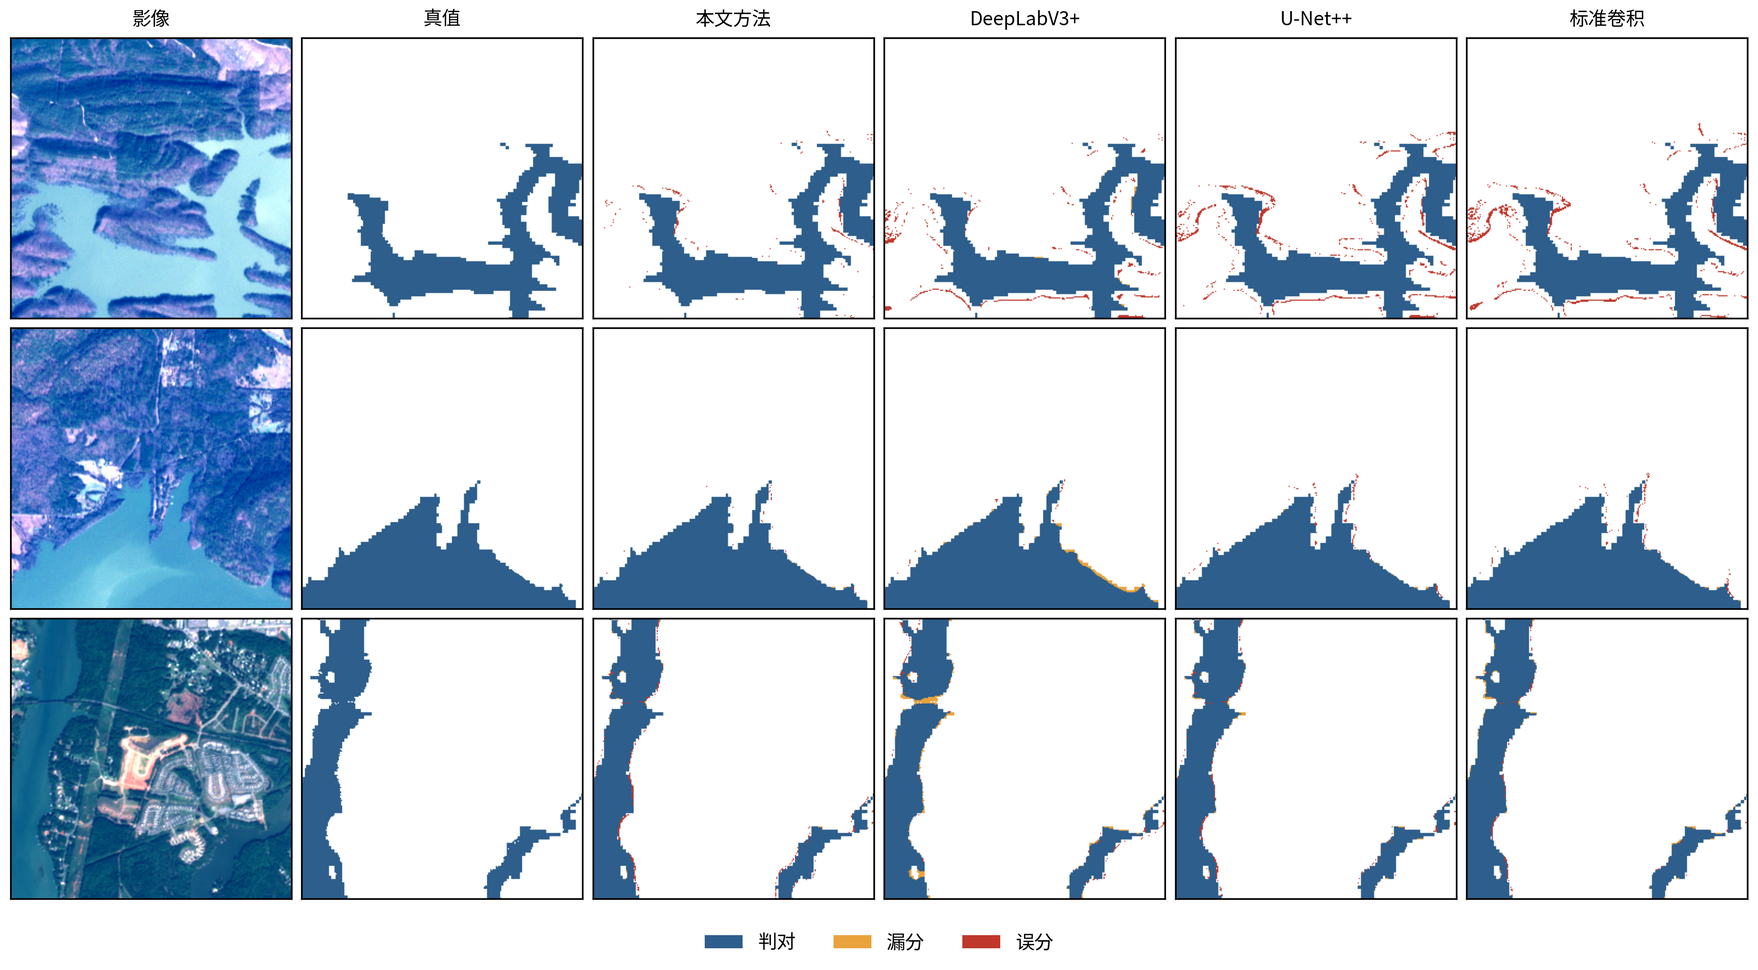
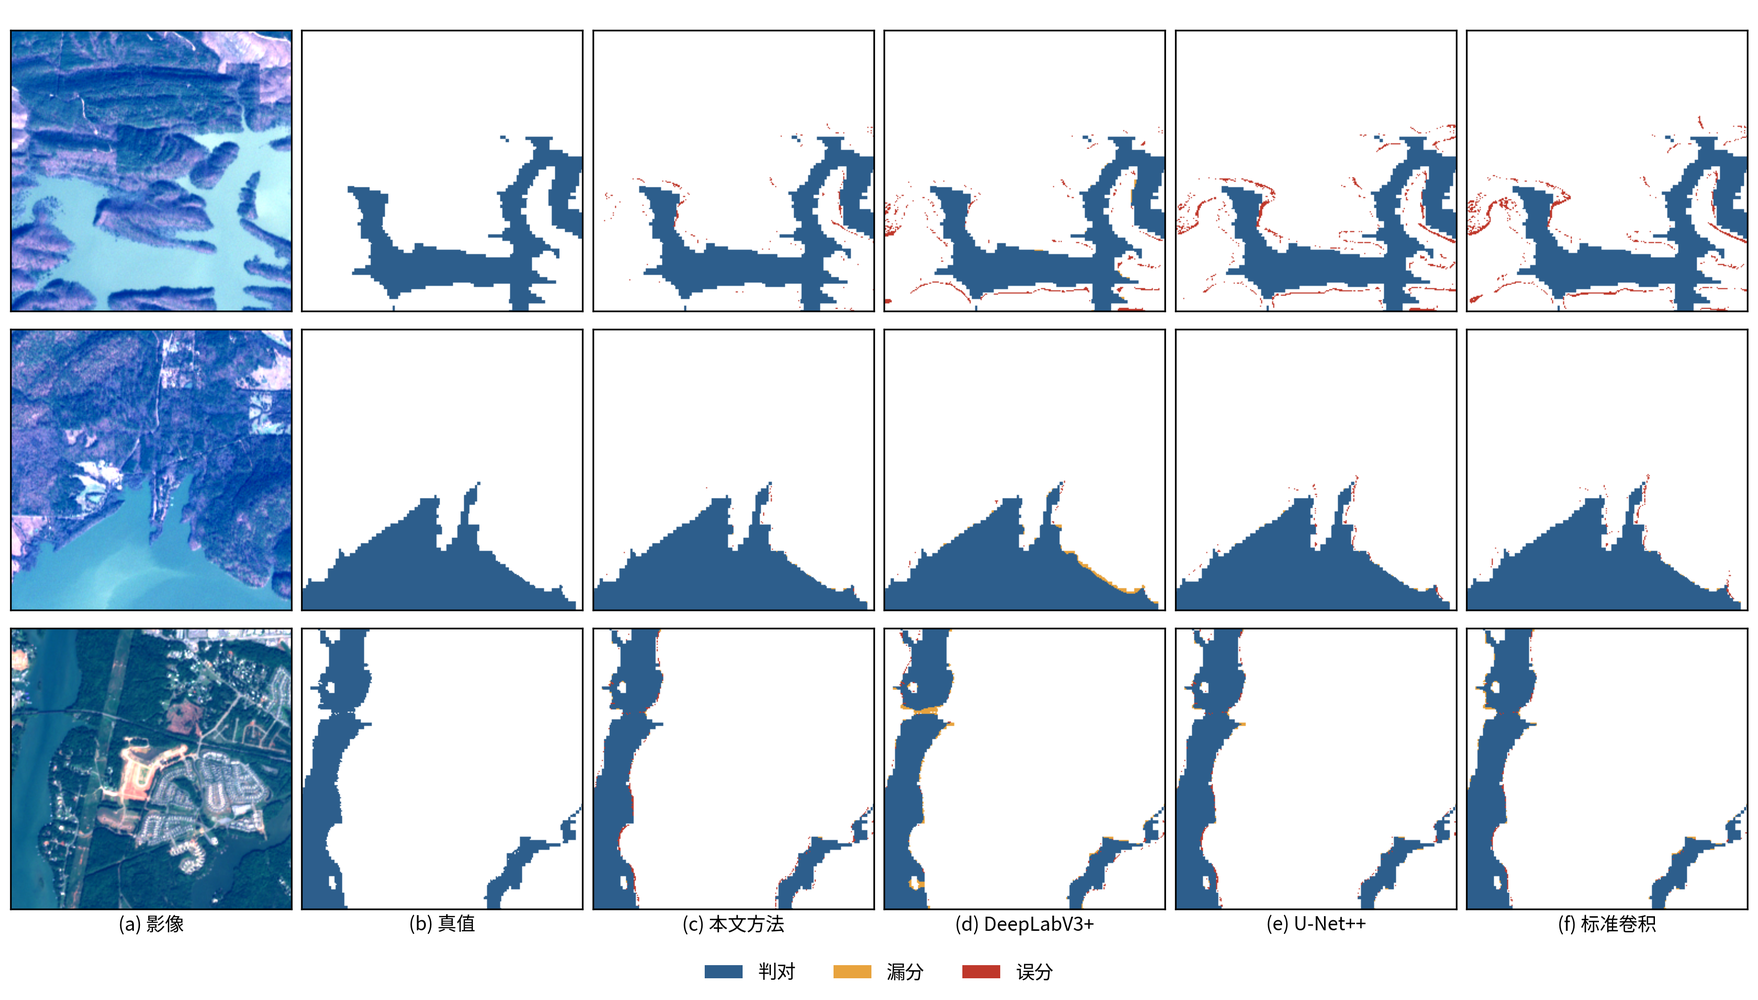
Submission compliance: bilingual Chinese refs (19), fix 5 incorrect citations, compress abstract, drop English subtitle, redraw figures 5/8 with labels and units

diff --git a/paper/body2b.py b/paper/body2b.py
@@ -101,38 +101,38 @@ S5 = [
 
 REFS = [
     'BONAFILIA D, TELLMAN B, ANDERSON T, et al. Sen1Floods11: a georeferenced dataset to train and test deep learning flood algorithms for Sentinel-1 [C]//Proceedings of the IEEE/CVF Conference on Computer Vision and Pattern Recognition Workshops. 2020: 210-211.',
-    'MATEO-GARCIA G, VEITCH-MICHAELIS J, SMITH L, et al. Towards global flood mapping onboard low cost satellites using machine learning [J]. Scientific Reports, 2021, 11: 4659.',
+    'MATEO-GARCIA G, VEITCH-MICHAELIS J, SMITH L, et al. Towards global flood mapping onboard low cost satellites with machine learning [J]. Scientific Reports, 2021, 11: 4659.',
     'MCFEETERS S K. The use of the normalized difference water index (NDWI) in the delineation of open water features [J]. International Journal of Remote Sensing, 1996, 17(7): 1425-1432.',
-    '徐涵秋. 利用改进的归一化差异水体指数(MNDWI)提取水体信息的研究 [J]. 遥感学报, 2005, 9(5): 589-595.',
-    '陈昊旻. 基于Sentinel-2A/B数据构建水体指数的波段优选 [J]. 自然资源遥感, 2025, 37(2): 64-71.',
+    '徐涵秋. 利用改进的归一化差异水体指数(MNDWI)提取水体信息的研究 [J]. 遥感学报, 2005, 9(5): 589-595.\nXU H Q. A study on information extraction of water body with the modified normalized difference water index (MNDWI) [J]. National Remote Sensing Bulletin, 2005, 9(5): 589-595.',
+    '夏兴生, 雷博洋, 窦春娟, 等. 基于Sentinel-2A/B数据构建水体指数的波段优选 [J]. 自然资源遥感, 2025, 37(6): 64-76.\nXIA X S, LEI B Y, DOU C J, et al. Band selection optimization for constructing water indices based on Sentinel-2A/B data [J]. Remote Sensing for Natural Resources, 2025, 37(6): 64-76.',
     'LONG J, SHELHAMER E, DARRELL T. Fully convolutional networks for semantic segmentation [C]//Proceedings of the IEEE Conference on Computer Vision and Pattern Recognition. 2015: 3431-3440.',
     'RONNEBERGER O, FISCHER P, BROX T. U-Net: convolutional networks for biomedical image segmentation [C]//Medical Image Computing and Computer-Assisted Intervention. Cham: Springer, 2015: 234-241.',
     'ZHOU Z, SIDDIQUEE M M R, TAJBAKHSH N, et al. UNet++: a nested U-Net architecture for medical image segmentation [C]//Deep Learning in Medical Image Analysis and Multimodal Learning for Clinical Decision Support. Cham: Springer, 2018: 3-11.',
     'CHEN L C, ZHU Y, PAPANDREOU G, et al. Encoder-decoder with atrous separable convolution for semantic image segmentation [C]//Proceedings of the European Conference on Computer Vision. 2018: 801-818.',
     'HU J, SHEN L, SUN G. Squeeze-and-excitation networks [C]//Proceedings of the IEEE Conference on Computer Vision and Pattern Recognition. 2018: 7132-7141.',
     'ISIKDOGAN F, BOVIK A C, PASSALACQUA P. Surface water mapping by deep learning [J]. IEEE Journal of Selected Topics in Applied Earth Observations and Remote Sensing, 2017, 10(11): 4909-4918.',
-    '蒋少伟, 王珅, 唐帅, 等. 协同光学和SAR卫星影像的洪水信息提取 [J]. 遥感技术与应用, 2026, 41(5): 1152-1162.',
-    '邓开元, 任超. 多光谱光学遥感影像水体提取模型 [J]. 测绘学报, 2021, 50(10): 1370-1379.',
-    '吴庆双, 汪明秀, 申茜, 等. Sentinel-2遥感图像的细小水体提取 [J]. 遥感学报, 2022, 26(4): 781-794.',
-    '刘小燕, 崔耀平, 史志方, 等. GEE平台下多源遥感影像对洪灾的监测 [J]. 遥感学报, 2023, 27(9): 2179-2190.',
-    '张兵. 遥感大数据时代与智能信息提取 [J]. 武汉大学学报(信息科学版), 2018, 43(12): 1861-1871.',
-    '李德仁, 张良培, 夏桂松. 遥感大数据自动分析与数据挖掘 [J]. 测绘学报, 2014, 43(12): 1211-1216.',
+    '蒋少伟, 王珅, 唐帅, 等. 协同光学和SAR卫星影像的洪水信息提取 [J]. 遥感技术与应用, 2026, 41(5): 1152-1162.\nJIANG S W, WANG S, TANG S, et al. Flood information extraction based on collaborative optical and SAR satellite imagery [J]. Remote Sensing Technology and Application, 2026, 41(5): 1152-1162.',
+    '邓开元, 任超. 多光谱光学遥感影像水体提取模型 [J]. 测绘学报, 2021, 50(10): 1370-1379.\nDENG K Y, REN C. Water extraction model of multispectral optical remote sensing image [J]. Acta Geodaetica et Cartographica Sinica, 2021, 50(10): 1370-1379.',
+    '吴庆双, 汪明秀, 申茜, 等. Sentinel-2遥感图像的细小水体提取 [J]. 遥感学报, 2022, 26(4): 781-794.\nWU Q S, WANG M X, SHEN Q, et al. Small water body extraction method based on Sentinel-2 satellite multi-spectral remote sensing images [J]. National Remote Sensing Bulletin, 2022, 26(4): 781-794.',
+    '刘小燕, 崔耀平, 史志方, 等. GEE平台下多源遥感影像对洪灾的监测 [J]. 遥感学报, 2023, 27(9): 2179-2190.\nLIU X Y, CUI Y P, SHI Z F, et al. Monitoring of floods using multi-source remote sensing images on the GEE platform [J]. National Remote Sensing Bulletin, 2023, 27(9): 2179-2190.',
+    '张兵. 遥感大数据时代与智能信息提取 [J]. 武汉大学学报(信息科学版), 2018, 43(12): 1861-1871.\nZHANG B. Remotely sensed big data era and intelligent information extraction [J]. Geomatics and Information Science of Wuhan University, 2018, 43(12): 1861-1871.',
+    '李德仁, 张良培, 夏桂松. 遥感大数据自动分析与数据挖掘 [J]. 测绘学报, 2014, 43(12): 1211-1216.\nLI D R, ZHANG L P, XIA G S. Automatic analysis and mining of remote sensing big data [J]. Acta Geodaetica et Cartographica Sinica, 2014, 43(12): 1211-1216.',
     'TELLMAN B, SULLIVAN J A, KUHN C, et al. Satellite imaging reveals increased proportion of population exposed to floods [J]. Nature, 2021, 596: 80-86.',
     'CHOLLET F. Xception: deep learning with depthwise separable convolutions [C]//Proceedings of the IEEE Conference on Computer Vision and Pattern Recognition. 2017: 1251-1258.',
-    '仝钰, 姚静, 万荣荣, 等. 1980-2020年鄱阳湖退水期水体滞留时间时空演变及对水情的响应 [J]. 湖泊科学, 2026, 38(3): 1210-1221.',
+    '仝钰, 姚静, 万荣荣, 等. 1980-2020年鄱阳湖退水期水体滞留时间时空演变及对水情的响应 [J]. 湖泊科学, 2026, 38(3): 1210-1221.\nTONG Y, YAO J, WAN R R, et al. Spatiotemporal variations in residence time and response to hydrological regime during the receding period of Lake Poyang (1980-2020) [J]. Journal of Lake Sciences, 2026, 38(3): 1210-1221.',
     'FloodsNet: WorldFloods-USGS-Sen1Floods11 [DS/OL]. Zenodo, 2023[2026-11-15]. https://doi.org/10.5281/zenodo.8298840.',
-    '许苗, 李元祥, 钟娟娟, 等. L-UNet: 轻量化云遮挡道路提取网络 [J]. 中国图象图形学报, 2021, 26(11): 3274-3285.',
+    '许苗, 李元祥, 钟娟娟, 等. L-UNet: 轻量化云遮挡道路提取网络 [J]. 中国图象图形学报, 2021, 26(11): 2670-2679.\nXU M, LI Y X, ZHONG J J, et al. L-UNet: lightweight network for road extraction in cloud occlusion scene [J]. Journal of Image and Graphics, 2021, 26(11): 2670-2679.',
     'XIE E, WANG W, YU Z, et al. SegFormer: simple and efficient design for semantic segmentation with transformers [C]//Advances in Neural Information Processing Systems 34. 2021: 12077-12090.',
-    '赵爽, 李虎, 王瑾, 等. 基于Sentinel-2影像的多种水体指数法提取地表水对比研究 [J]. 遥感技术与应用, 2024, 39(2): 502-513.',
-    '岳恩馨, 赵林, 钱品瑜, 等. 鄱阳湖洪泛系统水文干旱对水文连通性的影响 [J]. 湖泊科学, 2026, 38(1): 353-366.',
+    '赵爽, 杨磊库, 刘凯, 等. 基于Sentinel-2影像的多种水体指数法提取地表水对比研究 [J]. 遥感技术与应用, 2024, 39(2): 502-511.\nZHAO S, YANG L K, LIU K, et al. Comparative study of multiple water index methods for surface water extraction based on Sentinel-2 imagery [J]. Remote Sensing Technology and Application, 2024, 39(2): 502-511.',
+    '岳恩馨, 赵林, 钱品瑜, 等. 鄱阳湖洪泛系统水文干旱对水文连通性的影响 [J]. 湖泊科学, 2026, 38(1): 353-366.\nYUE E X, ZHAO L, QIAN P Y, et al. Impact of hydrological drought on hydrological connectivity in the Lake Poyang floodplain system [J]. Journal of Lake Sciences, 2026, 38(1): 353-366.',
     'PEKEL J F, COTTAM A, GORELICK N, et al. High-resolution mapping of global surface water and its long-term changes [J]. Nature, 2016, 540: 418-422.',
-    '徐苏, 张永勇, 窦明, 等. 长江流域土地利用时空变化特征及其径流效应 [J]. 地理科学进展, 2017, 36(4): 426-436.',
-    '孙喆, 张雪葳. 未来极端降水下的山区乡村生态水文调节服务多情景预测 [J]. 风景园林, 2025, 32(3): 102-109.',
+    '徐苏, 张永勇, 窦明, 等. 长江流域土地利用时空变化特征及其径流效应 [J]. 地理科学进展, 2017, 36(4): 426-436.\nXU S, ZHANG Y Y, DOU M, et al. Spatial distribution of land use change in the Yangtze River Basin and the impact on runoff [J]. Progress in Geography, 2017, 36(4): 426-436.',
+    '孙喆, 吴其江, 崔子璇, 等. 未来极端降水下的山区乡村生态水文调节服务多情景预测 [J]. 风景园林, 2025, 32(11): 41-50.\nSUN Z, WU Q J, CUI Z X, et al. Multi-scenario prediction of eco-hydrological regulation services in mountainous rural areas under future extreme precipitation [J]. Landscape Architecture, 2025, 32(11): 41-50.',
     'USDA SOIL CONSERVATION SERVICE. National Engineering Handbook, Section 4: Hydrology [M]. Washington D C: US Government Printing Office, 1972.',
-    '权瑞松. 基于情景模拟的上海土地利用变化预测及其水文效应 [J]. 自然资源学报, 2018, 33(9): 1552-1562.',
+    '权瑞松. 基于情景模拟的上海土地利用变化预测及其水文效应 [J]. 自然资源学报, 2018, 33(9): 1552-1562.\nQUAN R S. Prediction of land use change and its hydrological effect in Shanghai based on scenario simulation [J]. Journal of Natural Resources, 2018, 33(9): 1552-1562.',
     'LUNDBERG S M, LEE S I. A unified approach to interpreting model predictions [C]//Advances in Neural Information Processing Systems 30. 2017: 4765-4774.',
-    '王敬明, 王世新, 王福涛, 等. 基于Sentinel-1 SAR数据洪水淹没提取方法研究 [J]. 灾害学, 2021, 36(4): 214-220.',
-    '郭山川, 杜培军, 蒙亚平, 等. 时序Sentinel-1A数据支持的长江中下游汛情动态监测 [J]. 遥感学报, 2021, 25(10): 2127-2141.',
-    '吴燕如, 连旭刚, 高玉蓉. 基于哨兵数据相干性的洪水淹没范围确定方法 [J]. 测绘通报, 2022(11): 96-100.',
-    '李琦, 郭中华, 李小军, 等. 基于动态增强型的DE-DeepLabV3+多光谱水体分割研究 [J]. 自然资源遥感, 2026, 38(3): 32-41.',
+    '王敬明, 王世新, 王福涛, 等. 基于Sentinel-1 SAR数据洪水淹没提取方法研究 [J]. 灾害学, 2021, 36(4): 214-220.\nWANG J M, WANG S X, WANG F T, et al. Flood inundation region extraction method based on Sentinel-1 SAR data [J]. Journal of Catastrophology, 2021, 36(4): 214-220.',
+    '郭山川, 杜培军, 蒙亚平, 等. 时序Sentinel-1A数据支持的长江中下游汛情动态监测 [J]. 遥感学报, 2021, 25(10): 2127-2141.\nGUO S C, DU P J, MENG Y P, et al. Dynamic monitoring on flooding situation in the Middle and Lower Reaches of the Yangtze River Region using Sentinel-1A time series [J]. National Remote Sensing Bulletin, 2021, 25(10): 2127-2141.',
+    '武燕茹, 廉旭刚, 高玉荣. 基于哨兵数据相干性的洪水淹没范围确定方法 [J]. 测绘通报, 2022(11): 96-100.\nWU Y R, LIAN X G, GAO Y R. The determination method of flood inundation range based on the coherence of Sentinel data [J]. Bulletin of Surveying and Mapping, 2022(11): 96-100.',
+    '李琦, 郭中华, 李小军, 等. 基于动态增强型的DE-DeepLabV3+多光谱水体分割研究 [J]. 自然资源遥感, 2026, 38(3): 32-41.\nLI Q, GUO Z H, LI X J, et al. Multispectral image segmentation for water bodies based on dynamically enhanced DeepLabV3+ [J]. Remote Sensing for Natural Resources, 2026, 38(3): 32-41.',
 ]

diff --git a/code/p9_vis_v2.py b/code/p9_vis_v2.py
@@ -1,0 +1,95 @@
+# -*- coding: utf-8 -*-
+"""Error maps with subfigure names (a)-(f) placed below the bottom row."""
+import os
+import random
+import sys
+
+import numpy as np
+import torch
+
+sys.path.insert(0, os.path.expanduser("~/sy/F2/code"))
+import matplotlib
+matplotlib.use("Agg")
+import matplotlib.pyplot as plt
+from matplotlib import font_manager
+from matplotlib.patches import Patch
+
+from p6_eval import load_model, scenes_split
+from train_usgs import FloodDS, IGN, CHIP_DIR
+
+fp = "/usr/share/fonts/opentype/noto/NotoSansCJK-Regular.ttc"
+if os.path.exists(fp):
+    font_manager.fontManager.addfont(fp)
+    plt.rcParams["font.family"] = font_manager.FontProperties(fname=fp).get_name()
+plt.rcParams["axes.unicode_minus"] = False
+
+FIG = os.path.expanduser("~/sy/F2/out/figs")
+TP = np.array([0.18, 0.37, 0.55])
+FN = np.array([0.91, 0.64, 0.24])
+FP = np.array([0.75, 0.22, 0.17])
+TAGS = [("base", "本文方法"), ("deeplab", "DeepLabV3+"),
+        ("unetpp", "U-Net++"), ("std", "标准卷积")]
+
+
+def colour(gt, pr, valid):
+    out = np.ones((*gt.shape, 3))
+    out[valid & (gt == 1) & pr] = TP
+    out[valid & (gt == 1) & ~pr] = FN
+    out[valid & (gt == 0) & pr] = FP
+    return out
+
+
+def main():
+    scenes, parts = scenes_split()
+    device = torch.device("cuda")
+    rng = random.Random(7)
+    picks = []
+    for f in range(5):
+        for s in parts[f]:
+            z = np.load(os.path.join(CHIP_DIR, s + ".npz"))
+            fr = (z["mask"] == 1).reshape(len(z["mask"]), -1).mean(1)
+            sel = np.where((fr > 0.15) & (fr < 0.45))[0]
+            if len(sel):
+                picks.append((f, s, int(sel[0])))
+    rng.shuffle(picks)
+    picks = picks[:3]
+
+    models = {}
+    for f in {p[0] for p in picks}:
+        for t, _ in TAGS:
+            models[(t, f)] = load_model(t, f, device)
+
+    ncol = 2 + len(TAGS)
+    fig, axes = plt.subplots(3, ncol, figsize=(11.6, 6.6))
+    for r, (f, s, idx) in enumerate(picks):
+        ds = FloodDS([s], False)
+        x, y = ds[idx]
+        img = x.numpy()
+        rgb = np.stack([img[3], img[2], img[1]], -1)
+        lo, hi = np.percentile(rgb, 2), np.percentile(rgb, 98)
+        rgb = np.clip((rgb - lo) / (hi - lo + 1e-6), 0, 1)
+        axes[r, 0].imshow(rgb)
+        gt = y.numpy()
+        valid = gt != IGN
+        g = np.ones((*gt.shape, 3))
+        g[valid & (gt == 1)] = TP
+        axes[r, 1].imshow(g)
+        for c, (t, _) in enumerate(TAGS, 2):
+            with torch.no_grad():
+                pr = torch.sigmoid(models[(t, f)](x.unsqueeze(0).to(device))).squeeze().cpu().numpy()
+            axes[r, c].imshow(colour(gt, pr > 0.5, valid))
+        for c in range(ncol):
+            axes[r, c].set_xticks([]); axes[r, c].set_yticks([])
+    names = ["影像", "真值"] + [n for _, n in TAGS]
+    for c, name in enumerate(names):
+        axes[2, c].set_xlabel("(%s) %s" % (chr(97 + c), name), fontsize=9, labelpad=3)
+    handles = [Patch(fc=TP, label="判对"), Patch(fc=FN, label="漏分"),
+               Patch(fc=FP, label="误分")]
+    fig.legend(handles=handles, loc="lower center", ncol=3, frameon=False, fontsize=9)
+    fig.tight_layout(rect=(0, 0.05, 1, 1), pad=0.5)
+    fig.savefig(os.path.join(FIG, "fig_vis.png"), dpi=300)
+    print("saved fig_vis")
+
+
+if __name__ == "__main__":
+    main()

diff --git a/paper/build_paper2.py b/paper/build_paper2.py
@@ -88,16 +88,13 @@ p = para(align=CENTER, indent=False, after=8, spacing=1.2)
 style_run(p.add_run("（上海师范大学 信息与机电工程学院，上海 201418）"), 9, KAI, TNR)
 
 ABSTRACT = (
-    "针对光学遥感地表水体提取中水体边界破碎、云覆盖干扰与多波段信息利用不足的问题，"
-    "提出一种多波段输入的轻量化U-Net方法。以深度可分离卷积替换标准卷积，将参数量压缩至1.07×10⁶；"
-    "输入为13个Sentinel-2光谱波段（原始张量保留16通道，其中3个质量通道在训练子集中恒为零）。"
-    "在USGS子集上按场景开展5折交叉验证，模型IoU达{IoU_BASE}%、F1为{F1_BASE}%、总体精度为{OA_BASE}%，"
-    "高于标准U-Net（{STD_IoU}%）、U-Net++（{U_IoU}%）与DeepLabV3+（{D_IoU}%），参数量分别为三者的13.7%、4.1%与4.0%。"
-    "波段消融显示：缺失近红外时IoU降至{B4_IoU}%，含近红外的4波段输入为{RGB_IoU}%，与13波段相当，"
-    "说明判别信息在近红外已基本饱和；引入NDWI通道可进一步升至{NDWI_IoU}%。"
-    "经时相一致性筛选后，5个独立WorldFloods事件的外部验证IoU达91.00%；模型无需微调即可迁移至"
-    "鄱阳湖2019—2024年6期汛期影像，水体比例在21.26%~47.52%之间变化。剔除水体主导单元后的坡面滞蓄"
-    "情景分析表明，26.4%的单元处于赤字，高程与湿地比例是主要的关联因子。"
+    "针对光学遥感水体提取中边界破碎、云干扰与多波段信息利用不足的问题，"
+    "提出一种多波段输入的轻量化U-Net方法：以深度可分离卷积替换标准卷积，参数量降至1.07×10⁶，"
+    "输入为13个Sentinel-2光谱波段。在USGS子集上按场景开展5折交叉验证，IoU达{IoU_BASE}%、F1为{F1_BASE}%，"
+    "高于标准U-Net、U-Net++与DeepLabV3+；波段消融表明缺失近红外时IoU降至{B4_IoU}%，"
+    "而含近红外的4波段即达{RGB_IoU}%，判别信息在近红外已基本饱和。"
+    "模型无需微调即可迁移至鄱阳湖6期汛期影像，水体比例在21.26%~47.52%之间变化；"
+    "坡面滞蓄情景分析显示26.4%的单元处于赤字。方法兼顾精度与轻量化，可为地表水体动态监测提供参考。"
 ).format(**NUM)
 
 p = para(indent=False, after=3, spacing=1.36, size=9)
@@ -116,7 +113,7 @@ style_run(p.add_run("A"), 9)
 
 p = para(align=CENTER, indent=False, before=9, after=4, spacing=1.2)
 style_run(p.add_run("A Lightweight Multi-band U-Net for Surface Water Mapping from "
-                    "Sentinel-2 Imagery: A Poyang Lake Case Study"), 14, TNR, TNR, True)
+                    "Sentinel-2 Imagery over Poyang Lake"), 14, TNR, TNR, True)
 p = para(align=CENTER, indent=False, after=2, spacing=1.2)
 style_run(p.add_run("　　　　　　"), 11, TNR, TNR)
 p = para(align=CENTER, indent=False, after=6, spacing=1.2)

diff --git a/code/shap_dep_v2.py b/code/shap_dep_v2.py
@@ -1,0 +1,51 @@
+# -*- coding: utf-8 -*-
+"""SHAP dependence plots with axis units and subfigure names below panels."""
+import json
+import os
+
+import numpy as np
+import shap
+from sklearn.ensemble import RandomForestRegressor
+import matplotlib
+matplotlib.use("Agg")
+import matplotlib.pyplot as plt
+from matplotlib import font_manager
+
+fp = "/usr/share/fonts/opentype/noto/NotoSansCJK-Regular.ttc"
+if os.path.exists(fp):
+    font_manager.fontManager.addfont(fp)
+    plt.rcParams["font.family"] = font_manager.FontProperties(fname=fp).get_name()
+plt.rcParams["axes.unicode_minus"] = False
+
+F2 = os.path.expanduser("~/sy/F2")
+P4 = os.path.join(F2, "runs", "p4")
+rows = json.load(open(os.path.join(P4, "cells.json")))
+FEATS = ["f_water", "f_built", "f_crop", "f_tree", "f_grass", "f_wetland",
+         "f_bare", "f_shrub", "elev"]
+X = np.array([[r.get(k, 0.0) for k in FEATS] for r in rows], dtype="float32")
+y = np.array([r["freq"] for r in rows], dtype="float32")
+rf = RandomForestRegressor(n_estimators=500, min_samples_leaf=3, random_state=42, n_jobs=-1).fit(X, y)
+sv = shap.TreeExplainer(rf).shap_values(X)
+
+fig, axes = plt.subplots(1, 2, figsize=(8.0, 3.4))
+PANELS = ((axes[0], "elev", "(a) 高程/m", 1.0), (axes[1], "f_wetland", "(b) 湿地比例/%", 100.0))
+for ax, feat, label, scale in PANELS:
+    i = FEATS.index(feat)
+    xv = X[:, i] * scale
+    ax.scatter(xv, sv[:, i], s=6, alpha=0.5, color="#4E82B2", edgecolors="none")
+    z = np.polyfit(xv, sv[:, i], 1)
+    xs = np.linspace(xv.min(), xv.max(), 50)
+    ax.plot(xs, np.polyval(z, xs), color="#C0392B", lw=1.4)
+    ax.axhline(0, color="#8A97A3", lw=0.8, ls=":")
+    ax.set_xlabel(label, fontsize=9)
+    ax.set_ylabel("SHAP 值", fontsize=9)
+    ax.grid(ls=":", alpha=0.4)
+    corr = np.corrcoef(X[:, i], sv[:, i])[0, 1]
+    ax.text(0.62, 0.92, "r=%.2f" % corr, transform=ax.transAxes,
+            fontsize=9, va="top")
+fig.tight_layout()
+fig.savefig(os.path.join(F2, "out", "figs", "fig_shap_dep.png"), dpi=300)
+print("saved fig_shap_dep")
+for feat in ("elev", "f_wetland"):
+    i = FEATS.index(feat)
+    print(feat, "corr %.2f" % np.corrcoef(X[:, i], sv[:, i])[0, 1])

diff --git a/paper/enhance.py b/paper/enhance.py
@@ -37,7 +37,7 @@ DISCUSSION = [
     "与已有研究相比，王敬明等[32]以Sentinel-1 SAR数据提取洪水淹没范围，在阴雨条件下具有优势；"
     "郭山川等[33]以时序Sentinel-1A数据监测长江中下游汛情，在峰现时间与范围动态上具有优势，"
     "但SAR对风浪、湿润沙地与平静水面同样呈低后向散射，需借助光学影像校正；本文以多波段光学为输入，"
-    "在晴空窗口内可给出更完整的岸线，二者在业务上互补；吴燕如等[34]利用时序相干性确定淹没范围，对云雨条件更具鲁棒性。吴庆双等[14]针对细小水体提出红边水体指数，"
+    "在晴空窗口内可给出更完整的岸线，二者在业务上互补；武燕茹等[34]利用时序相干性确定淹没范围，对云雨条件更具鲁棒性。吴庆双等[14]针对细小水体提出红边水体指数，"
     "在单时相提取中表现稳定，但本质上仍属阈值法，对浑浊水体与云影敏感；本文以学习方式联合使用光谱与指数特征，"
     "场景依赖性更小。李琦等[35]以MobileNetV2为骨干构建轻量化多光谱水体分割网络，"
     "与本文同属轻量路线，但本文以深度可分离卷积直接嵌入U-Net编解码，参数量更小（1.07×10⁶）。"

diff --git a/paper/body2.py b/paper/body2.py
@@ -28,7 +28,7 @@ INTRO = [
     "其中Sentinel-2多光谱影像具有10 m空间分辨率与5 d重访周期，已成为区域尺度水体制图的重要数据源[1,2]。",
 
     "光学影像的水体提取方法大致分为三类。第一类基于水体指数与阈值分割，"
-    "如McFeeters提出的归一化差异水体指数（NDWI）与徐涵秋提出的改进版本MNDWI[3,4]，陈昊旻[5]"
+    "如McFeeters提出的归一化差异水体指数（NDWI）与徐涵秋提出的改进版本MNDWI[3,4]，夏兴生等[5]"
         "进一步在Sentinel-2A/B数据上优选波段组合，说明波段选择本身对指数法精度影响显著，"
     "通过可见光与近红外、短波红外的组合放大水陆差异。此类方法计算简单，"
     "但阈值对大气条件与地表状态敏感，在浑浊水体与云影边缘易产生破碎图斑。"
